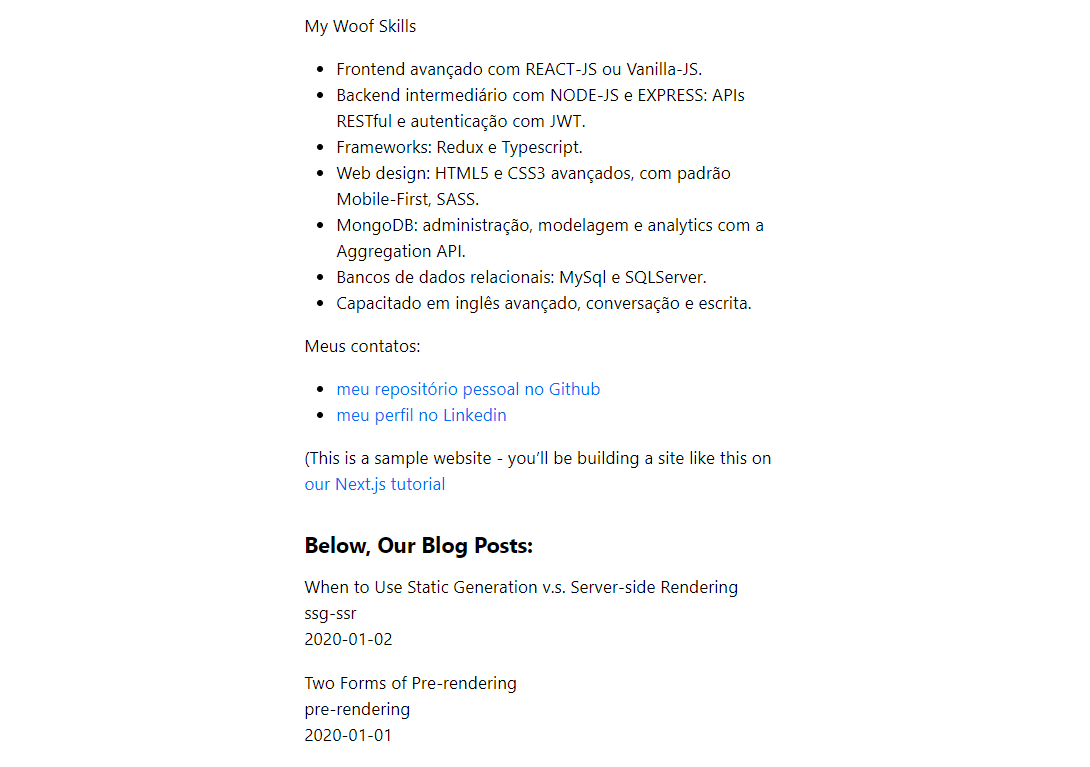
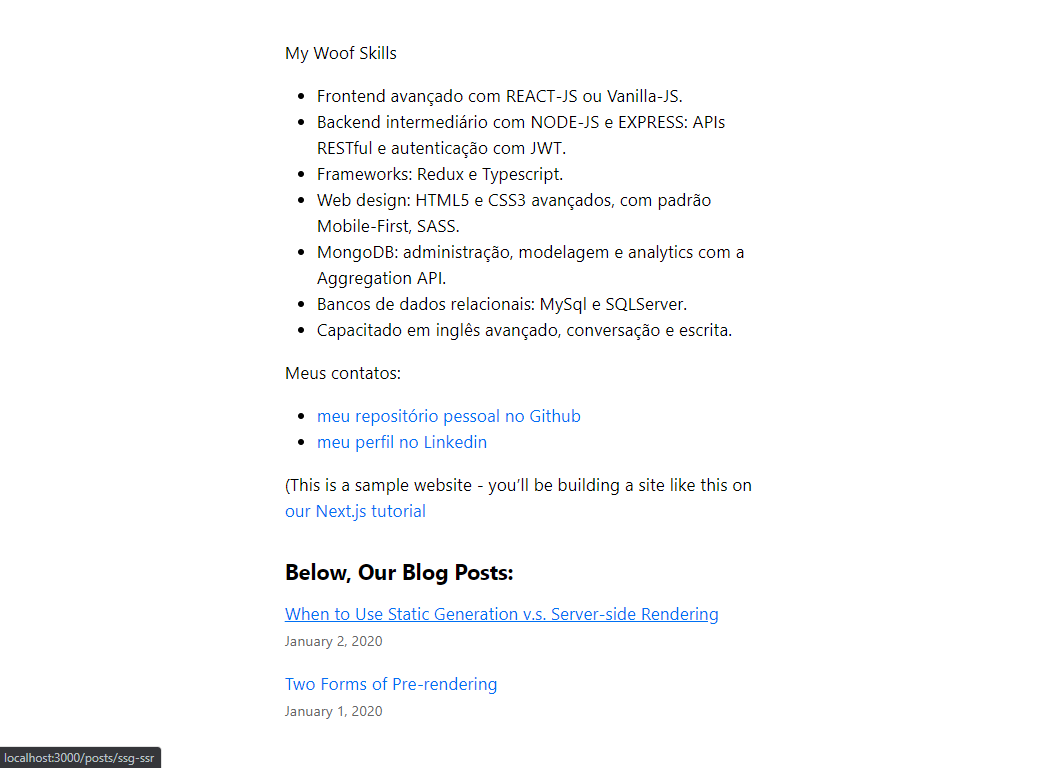
Inserir componente Link do Nextjs para navegacao frontend em index.js. Importar componente de datas formatadas tambem. Inserir imagens em readme.md

Changed region(s): [[0.2498, 0.03, 0.7181, 0.8396], [0.281, 0.8696, 0.4683, 0.9896], [0.0, 0.9596, 0.1561, 1.0]]

diff --git a/pages/index.js b/pages/index.js
@@ -1,10 +1,12 @@
 // https://nextjs.org/learn/basics/dynamic-routes
 // styles
 import Head from 'next/head';
+import Link from 'next/link';
 import utilStyles from '../styles/utils.module.css';
  
 // components
 import Layout, { siteTitle } from '../components/layout';
+import Date from '../components/date';
 
 // data 
 import { getSortedPostsData } from '../lib/posts';
@@ -60,11 +62,13 @@ export default function Home({ allPostsData }) {
 					<ul className={utilStyles.list}>
 						{allPostsData.map(({ id, date, title }) => (
 							<li className={utilStyles.listItem} key={id}>
-								{title}
+								<Link href={`/posts/${id}`}>
+									<a>{title}</a>
+								</Link>
 								<br />
-								{id}
-								<br />
-								{date}
+								<small className={utilStyles.lightText}>
+									<Date dateString={date} />
+								</small>
 							</li>
 						))}
 					</ul>

diff --git a/README.md b/README.md
@@ -46,7 +46,7 @@ Dependências:
 
 ### I:
 
-![Imagem do Blog apresentando ao final uma lista com mensagens postadas](/public/images/)
+![Imagem do Blog apresentando ao final uma lista com mensagens postadas](/public/images/nextjs-org-blog-tutorial-03.png)
 
 
 
